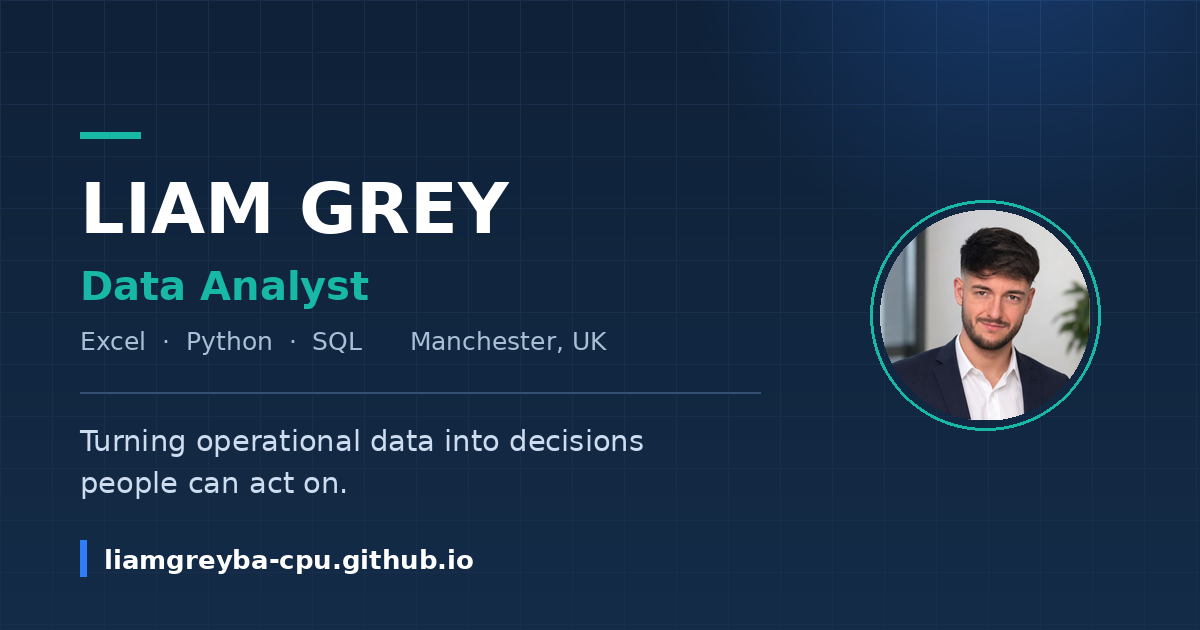
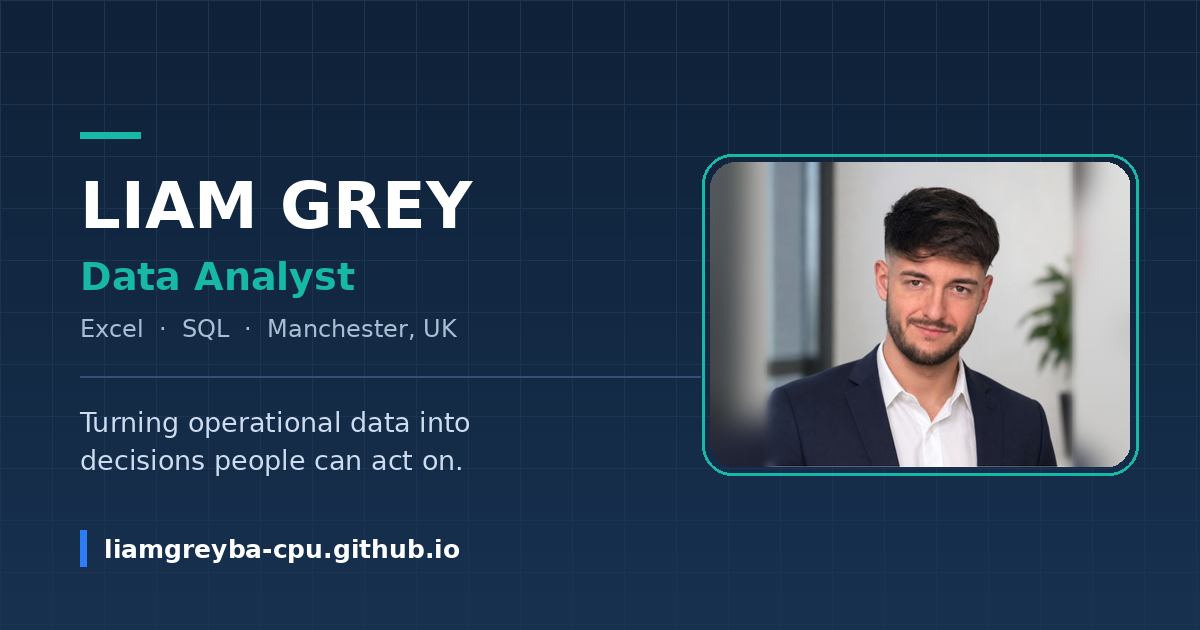
Add files via upload

diff --git a/index.html b/index.html
@@ -26,7 +26,7 @@
   --navy:#0F2138; --navy-2:#17314F; --navy-3:#1E3E62;
   --blue:#2E7DF6; --blue-d:#1B5FCC; --teal:#17B8A6;
   --bg:#FFFFFF; --soft:#F4F7FB; --line:#E1E8F0;
-  --ink:#10233B; --ink-2:#51657D; --ink-3:#7C8DA3;
+  --ink:#10233B; --ink-2:#51657D; --ink-3:#5F6E86;
   --f:"Plus Jakarta Sans",-apple-system,BlinkMacSystemFont,"Segoe UI",Roboto,sans-serif;
   --sh:0 1px 2px rgba(16,35,59,.05),0 8px 24px rgba(16,35,59,.07);
   --sh-lg:0 2px 4px rgba(16,35,59,.06),0 18px 44px rgba(16,35,59,.12);
@@ -37,7 +37,7 @@ html{-webkit-text-size-adjust:100%;scroll-behavior:smooth;scroll-padding-top:70p
 @media(prefers-reduced-motion:reduce){html{scroll-behavior:auto}}
 body{margin:0;background:var(--bg);color:var(--ink);font-family:var(--f);font-size:16px;line-height:1.65;-webkit-font-smoothing:antialiased}
 img{max-width:100%;display:block}
-a{color:var(--blue)}
+a{color:var(--blue-d)}
 :focus-visible{outline:2px solid var(--blue);outline-offset:3px;border-radius:4px}
 .wrap{max-width:74rem;margin:0 auto;padding-inline:clamp(1.25rem,4vw,2.5rem)}
 section{padding-block:clamp(3.25rem,6.5vw,5.5rem)}
@@ -45,7 +45,7 @@ section{padding-block:clamp(3.25rem,6.5vw,5.5rem)}
 h1,h2,h3,h4{margin:0;letter-spacing:-.025em;line-height:1.15;font-weight:700}
 h2{font-size:clamp(1.65rem,1.35rem+1.4vw,2.35rem)}
 h3{font-size:1.2rem;letter-spacing:-.02em}
-.kicker{display:inline-flex;align-items:center;gap:.5rem;font-size:.75rem;font-weight:700;letter-spacing:.11em;text-transform:uppercase;color:var(--blue);margin-bottom:.9rem}
+.kicker{display:inline-flex;align-items:center;gap:.5rem;font-size:.75rem;font-weight:700;letter-spacing:.11em;text-transform:uppercase;color:var(--blue-d);margin-bottom:.9rem}
 .kicker::before{content:"";width:1.6rem;height:2px;background:var(--blue);border-radius:2px}
 .sec-intro{color:var(--ink-2);max-width:60ch;margin:.85rem 0 2.5rem;font-size:1.02rem}
 
@@ -57,8 +57,8 @@ h3{font-size:1.2rem;letter-spacing:-.02em}
 .nav nav{display:flex;gap:1.6rem;align-items:center}
 .nav nav a{font-size:.875rem;font-weight:500;color:#B9C7D9;text-decoration:none;transition:color .15s}
 .nav nav a:hover{color:#fff}
-.nav .cta{background:var(--blue);color:#fff;padding:.5rem .95rem;border-radius:8px;font-weight:600}
-.nav .cta:hover{background:var(--blue-d);color:#fff}
+.nav .cta{background:var(--blue-d);color:#fff;padding:.5rem .95rem;border-radius:8px;font-weight:600}
+.nav .cta:hover{background:#154BA3;color:#fff}
 @media(max-width:820px){.nav nav a:not(.cta){display:none}}
 
 /* ============ HERO ============ */
@@ -70,7 +70,7 @@ h3{font-size:1.2rem;letter-spacing:-.02em}
   background:radial-gradient(circle,rgba(46,125,246,.34),transparent 68%);pointer-events:none}
 .hero .wrap{position:relative;z-index:2}
 .hero-grid{display:grid;gap:2.5rem;align-items:center}
-@media(min-width:900px){.hero-grid{grid-template-columns:minmax(0,1fr) 23rem;gap:4rem}}
+@media(min-width:900px){.hero-grid{grid-template-columns:minmax(0,1fr) 26rem;gap:3.5rem}}
 .hero .kicker{color:var(--teal)}
 .hero .kicker::before{background:var(--teal)}
 .hero h1{font-size:clamp(2.15rem,1.5rem+2.8vw,3.5rem);font-weight:800;margin-bottom:.75rem}
@@ -78,8 +78,8 @@ h3{font-size:1.2rem;letter-spacing:-.02em}
 .hero p.lede{color:#C3D2E4;max-width:52ch;margin:0;font-size:1.02rem}
 .hero-cta{display:flex;flex-wrap:wrap;gap:.7rem;margin-top:2rem}
 .btn{display:inline-flex;align-items:center;gap:.5rem;font-size:.92rem;font-weight:600;text-decoration:none;padding:.78rem 1.35rem;border-radius:10px;transition:.16s;border:1px solid transparent;cursor:pointer}
-.btn-p{background:var(--blue);color:#fff}
-.btn-p:hover{background:var(--blue-d);transform:translateY(-1px);box-shadow:0 8px 20px rgba(46,125,246,.32)}
+.btn-p{background:var(--blue-d);color:#fff}
+.btn-p:hover{background:#154BA3;transform:translateY(-1px);box-shadow:0 8px 20px rgba(46,125,246,.32)}
 .btn-g{background:rgba(255,255,255,.07);color:#fff;border-color:rgba(255,255,255,.2)}
 .btn-g:hover{background:rgba(255,255,255,.14)}
 .btn-o{background:#fff;color:var(--ink);border-color:var(--line);box-shadow:var(--sh)}
@@ -90,7 +90,7 @@ h3{font-size:1.2rem;letter-spacing:-.02em}
 .hero-contact svg{width:15px;height:15px;flex:none;opacity:.85}
 
 .portrait{position:relative;justify-self:center}
-.portrait img{width:clamp(13rem,48vw,21rem);aspect-ratio:1;object-fit:cover;border-radius:22px;border:1px solid rgba(255,255,255,.18);box-shadow:0 24px 60px rgba(0,0,0,.42)}
+.portrait img{width:clamp(15rem,58vw,25rem);aspect-ratio:11/8;object-fit:cover;border-radius:22px;border:1px solid rgba(255,255,255,.18);box-shadow:0 24px 60px rgba(0,0,0,.42)}
 .portrait::after{content:"";position:absolute;inset:-10px;border-radius:30px;border:1px solid rgba(23,184,166,.35);pointer-events:none}
 
 /* ============ STATS ============ */
@@ -107,7 +107,7 @@ h3{font-size:1.2rem;letter-spacing:-.02em}
 .about-grid p{color:var(--ink-2);margin:0 0 1.05em}
 .about-grid p:last-child{margin:0}
 .facts{background:var(--soft);border:1px solid var(--line);border-radius:var(--r);padding:1.5rem;align-self:start}
-.facts h4{font-size:.75rem;font-weight:700;letter-spacing:.1em;text-transform:uppercase;color:var(--ink-3);margin-bottom:1rem}
+.facts .facts-h{font-size:.75rem;font-weight:700;letter-spacing:.1em;text-transform:uppercase;color:var(--ink-3);margin-bottom:1rem}
 .facts dl{margin:0;display:grid;gap:.85rem}
 .facts .r{display:flex;justify-content:space-between;gap:1rem;padding-bottom:.85rem;border-bottom:1px solid var(--line);font-size:.9rem}
 .facts .r:last-child{border-bottom:0;padding-bottom:0}
@@ -139,6 +139,8 @@ h3{font-size:1.2rem;letter-spacing:-.02em}
 @media(min-width:760px){.pcards{grid-template-columns:repeat(3,1fr)}}
 .pcard{display:flex;flex-direction:column;background:#fff;border:1px solid var(--line);border-radius:var(--r);overflow:hidden;box-shadow:var(--sh);text-decoration:none;color:inherit;transition:.18s}
 .pcard:hover{transform:translateY(-3px);box-shadow:var(--sh-lg);border-color:#C9D8EA}
+.pcard.is-upcoming{cursor:default}
+.pcard.is-upcoming:hover{transform:none;box-shadow:var(--sh);border-color:var(--line)}
 .pcard .thumb{aspect-ratio:4/3;object-fit:cover;background:var(--navy)}
 .pcard .pc-body{padding:1.25rem 1.35rem 1.45rem;display:flex;flex-direction:column;flex:1}
 .pill{display:inline-block;font-size:.68rem;font-weight:700;letter-spacing:.07em;text-transform:uppercase;padding:.24rem .55rem;border-radius:6px;margin-bottom:.7rem;align-self:flex-start}
@@ -159,8 +161,8 @@ h3{font-size:1.2rem;letter-spacing:-.02em}
 .shot img{width:100%;height:auto}
 .figpair{display:grid;gap:1.25rem;margin-bottom:1.75rem}
 @media(min-width:720px){.figpair{grid-template-columns:1fr 1fr}}
-.figpair .shot{margin-bottom:0;display:flex;flex-direction:column}
-.figpair .shot img{flex:1;object-fit:contain;background:#12161C}
+.figpair .shot{margin-bottom:0}
+.figpair .shot img{width:100%;height:auto}
 .shot figcaption{font-size:.8rem;color:var(--ink-3);background:var(--soft);padding:.6rem .85rem;border-top:1px solid var(--line)}
 .split{display:grid;gap:1.75rem}
 @media(min-width:780px){.split{grid-template-columns:1fr 1fr;column-gap:2.75rem}}
@@ -210,7 +212,7 @@ ul.pts code{font-family:ui-monospace,Menlo,monospace;font-size:.85em;background:
 .tl-head{display:flex;flex-wrap:wrap;gap:.2rem 1rem;align-items:baseline;justify-content:space-between;margin-bottom:.2rem}
 .tl-head h3{font-size:1.05rem}
 .tl-head .when{font-size:.82rem;font-weight:600;color:var(--ink-3);white-space:nowrap}
-.tl-item .org{font-size:.9rem;font-weight:600;color:var(--blue);margin:0 0 .7rem}
+.tl-item .org{font-size:.9rem;font-weight:600;color:var(--blue-d);margin:0 0 .7rem}
 .tl-item.alt .org{color:var(--teal)}
 
 /* ============ CONTACT ============ */
@@ -263,7 +265,7 @@ footer strong{color:#C3D2E4}
         <span class="kicker">Manchester, United Kingdom</span>
         <h1>Liam Grey</h1>
         <p class="subtitle">Data Analyst — Excel · Python · SQL</p>
-        <p class="lede">I turn operational data into answers people can act on. I build the full pipeline — collection, cleaning, analysis and validation — and I test my conclusions before I present them.</p>
+        <p class="lede">I turn operational data into answers people can act on — collecting it, cleaning it, analysing it, then testing the conclusion before I present it.</p>
         <div class="hero-cta">
           <a class="btn btn-p" href="#projects">View my projects</a>
           <a class="btn btn-g" href="assets/Liam-Grey-CV.pdf">Download CV</a>
@@ -300,17 +302,17 @@ footer strong{color:#C3D2E4}
     <h2>I analyse operational data — and I've worked where it's generated.</h2>
     <div class="about-grid" style="margin-top:1.75rem">
       <div>
-        <p>I build the full pipeline: sourcing and cleaning the data, defining the metrics, running the analysis, then stress-testing the conclusion before I present it. That last step matters most to me — a finding nobody has challenged isn't a finding worth acting on.</p>
+        <p>I work the whole process through: sourcing and cleaning the data, defining the metrics, running the analysis, then stress-testing the conclusion before I present it. That last step matters most to me — a finding nobody has challenged isn't a finding worth acting on.</p>
         <p>What I bring that most entry-level analysts don't is context. I work in high-volume food production, so I've seen how operational numbers are actually produced: where they get recorded, where they get recorded wrong, and what a supervisor means when they say a line ran badly. That means I know which questions are worth asking before I open the spreadsheet.</p>
         <p>Behind that sits formal training and self-directed work — the Google Data Analytics Professional Certificate, Excel to a working standard, and Python for datasets too large for a spreadsheet. The featured project below is a validation suite I built to attack my own results, and it caught four flaws in my methodology before I reported anything.</p>
         <p>I'm looking for a data or business analyst apprenticeship where I can apply that to real commercial problems — ideally in operations, manufacturing or logistics.</p>
       </div>
       <aside class="facts">
-        <h4>At a glance</h4>
+        <h3 class="facts-h">At a glance</h3>
         <dl>
           <div class="r"><dt>Location</dt><dd>Manchester, UK</dd></div>
           <div class="r"><dt>Looking for</dt><dd>Analyst apprenticeship</dd></div>
-          <div class="r"><dt>Availability</dt><dd>Immediate</dd></div>
+          <div class="r"><dt>Availability</dt><dd>Currently employed</dd></div>
           <div class="r"><dt>Certificate</dt><dd>Google Data Analytics</dd></div>
           <div class="r"><dt>Core tools</dt><dd>Excel, Python</dd></div>
           <div class="r"><dt>Sector interest</dt><dd>Operations, manufacturing</dd></div>
@@ -380,7 +382,7 @@ footer strong{color:#C3D2E4}
           <div class="pc-tags"><span class="tg">Python (AI-assisted)</span><span class="tg">Monte Carlo</span><span class="tg">Validation</span></div>
         </div>
       </a>
-      <a class="pcard reveal" href="#feature" aria-disabled="true" style="pointer-events:none;opacity:.94">
+      <div class="pcard reveal is-upcoming">
         <img class="thumb" src="assets/cover-production.png" alt="" loading="lazy">
         <div class="pc-body">
           <span class="pill wip">In progress</span>
@@ -388,8 +390,8 @@ footer strong{color:#C3D2E4}
           <p>Shift-level downtime, yield and throughput — testing assumed causes against the data.</p>
           <div class="pc-tags"><span class="tg">Excel</span><span class="tg">PivotTables</span><span class="tg">Manufacturing</span></div>
         </div>
-      </a>
-      <a class="pcard reveal" href="#feature" aria-disabled="true" style="pointer-events:none;opacity:.94">
+      </div>
+      <div class="pcard reveal is-upcoming">
         <img class="thumb" src="assets/cover-sql.png" alt="" loading="lazy">
         <div class="pc-body">
           <span class="pill wip">In progress</span>
@@ -397,7 +399,7 @@ footer strong{color:#C3D2E4}
           <p>Joins, aggregation and window functions, written up as findings rather than queries.</p>
           <div class="pc-tags"><span class="tg">SQL</span><span class="tg">Reporting</span></div>
         </div>
-      </a>
+      </div>
     </div>
 
     <article class="feature" id="feature">
@@ -521,9 +523,9 @@ footer strong{color:#C3D2E4}
         <div class="tl-head"><h3>Analytics practice — self-directed</h3><span class="when">2024 – Present</span></div>
         <p class="org">Personal projects</p>
         <ul class="pts t">
-          <li>Sourced, cleaned and structured multi-year datasets across six data series.</li>
-          <li>Defined pass/fail criteria before testing rather than after, then analysed expected value, drawdown, win rate and risk of ruin.</li>
-          <li>Built Monte Carlo simulation, sensitivity analysis and correlation testing on top of the results.</li>
+          <li>Sourced, cleaned and structured multi-year datasets across six data series, then built repeatable summaries from them.</li>
+          <li>Defined what would count as success or failure before running the analysis, rather than deciding afterwards.</li>
+          <li>Built simulation, sensitivity and correlation testing on top of the results to check how far the conclusions could be trusted.</li>
         </ul>
       </div>
       <div class="tl-item">
